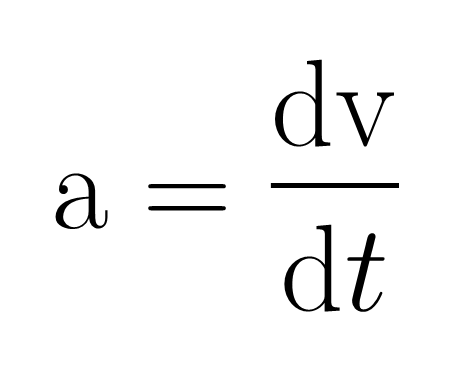
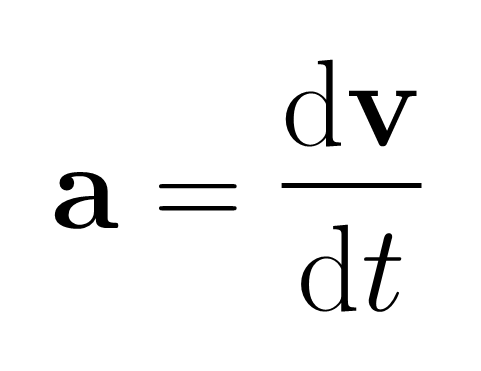
Generated new images using improved typesetter code

diff --git a/PhysicsFormulae.TerminalApplication/Program.cs b/PhysicsFormulae.TerminalApplication/Program.cs
@@ -121,23 +121,13 @@ namespace PhysicsFormulae.TerminalApplication
 
         public static void MakeFormulaImages(IEnumerable<Formula> formulae)
         {
-            var fontLoader = new FontLoader();
-            var textMeasurer = new HyperfontTextMeasurer(fontLoader);
-            var typesetter = new Typesetter(textMeasurer);
-            var exporter = new PNGExporter(fontLoader);
-            var parser = new LaTeXParser();
+            var renderer = new MathematicsTypesetting.Rendering.Renderer();
 
             foreach (var formula in formulae)
             {
-                var document = new Document();
-
-                document.MainElement = parser.ParseLaTeX(formula.Content);
-
-                typesetter.TypesetDocument(document);
-
                 var fileLocation = Path.Combine(@"..\..\..\PhysicsFormulae.WebApplication\images\", formula.URLReference + ".png");
 
-                exporter.ExportMathematics(document, fileLocation);
+                renderer.RenderMathematics(formula.Content, fileLocation);
             }
         }
     }
